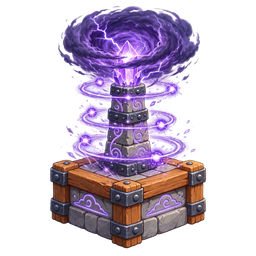
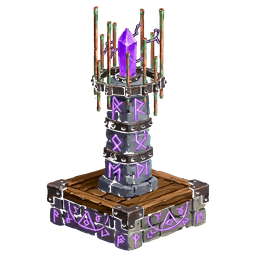
Lightning: per-state muzzles + structure-first art for 16 effect-dominated states

diff --git a/tests/browser/lightning-muzzles.spec.js b/tests/browser/lightning-muzzles.spec.js
@@ -1,0 +1,291 @@
+import { test, expect } from "@playwright/test";
+import { mkdirSync } from "node:fs";
+import {
+  declaredMuzzle,
+  towerDisplaySize,
+  towerMuzzle,
+} from "../../src/data/towers.js";
+
+// Lightning per-state muzzles (structure-first redo, 2026-10-21):
+// lightning was the type whose single type muzzle [0, -54] sat
+// inside the tower body — worst on the effect-dominated states,
+// whose bolts left from mid-cloud (1-3-0's old art grounded at
+// [0, -44]). Every state now declares its own muzzle in
+// STATE_MUZZLES, grounded on its own artwork; sixteen states also
+// carry new structure-first art (conductor prongs / coil masts /
+// crystal crowns replacing arc fountains, cloud stacks and vortex
+// wraps). Lightning draws no pointing weapon, so nothing mirrors
+// — the renderer's visual muzzle IS towerMuzzle. This spec pins
+// the table to the Phase 1 measurements, then proves in-game
+// that bolts leave from the declared per-state muzzle: the model
+// emits "bolt" with the tower in the payload and the scene
+// prepends towerVisualMuzzle(tower) to the effect's points, so
+// the capture below attributes each bolt by tower id, never by
+// screen position. QA stills land in ~/workspace/ts-proof-art/qa/.
+const QA = `${process.env.HOME}/workspace/ts-proof-art/qa`;
+mkdirSync(QA, { recursive: true });
+
+// Phase 1 grounded values (measurements.json), [dx, dy] at the
+// 80px reference render. The ascended entry is grounded on the
+// CURRENT ascended art (crowned orb center) — the staged
+// replacement art is held out, so its value is pinned too.
+const EXPECTED = {
+  "0-0-0": [-1, -68], "0-0-1": [-1, -69], "0-0-2": [0, -67],
+  "0-0-3": [0, -64], "0-1-0": [-1, -69], "0-1-1": [-1, -70],
+  "0-1-2": [0, -68], "0-1-3": [0, -64], "0-2-0": [0, -68],
+  "0-2-1": [1, -69], "0-3-0": [-1, -68], "0-3-1": [0, -68],
+  "1-0-0": [0, -68], "1-0-1": [0, -69], "1-0-2": [0, -67],
+  "1-0-3": [0, -60], "1-1-0": [0, -64], "1-2-0": [0, -69],
+  "1-3-0": [0, -66], "2-0-0": [0, -72], "2-0-1": [0, -68],
+  "2-1-0": [0, -73], "3-0-0": [0, -73], "3-0-1": [0, -66],
+  "3-1-0": [0, -69], ascended: [0, -65],
+};
+// Every state is sampled in-game: all three paths tier by tier,
+// the mixes, and every redo state. Upgrade sequences build the
+// highest path first, then the secondary (the cannon/fire specs'
+// proven order).
+const SAMPLES = {
+  "0-0-0": [],
+  "1-0-0": [0],
+  "2-0-0": [0, 0],
+  "3-0-0": [0, 0, 0],
+  "3-0-1": [0, 0, 0, 2],
+  "3-1-0": [0, 0, 0, 1],
+  "0-1-0": [1],
+  "0-2-0": [1, 1],
+  "0-3-0": [1, 1, 1],
+  "0-3-1": [1, 1, 1, 2],
+  "0-1-1": [1, 2],
+  "0-2-1": [1, 1, 2],
+  "1-2-0": [1, 1, 0],
+  "1-3-0": [1, 1, 1, 0],
+  "1-1-0": [0, 1],
+  "0-0-1": [2],
+  "0-0-2": [2, 2],
+  "0-0-3": [2, 2, 2],
+  "0-1-2": [2, 2, 1],
+  "0-1-3": [2, 2, 2, 1],
+  "1-0-1": [0, 2],
+  "1-0-2": [2, 2, 0],
+  "1-0-3": [2, 2, 2, 0],
+  "2-0-1": [0, 0, 2],
+  "2-1-0": [0, 0, 1],
+};
+// Every state's correction is large enough that the bolt must
+// land measurably off the OLD type muzzle [0, -54]: the smallest
+// vertical correction in the table is 6 units (1-0-3), worth
+// ~7px at that state's display scale.
+const BIG = new Set(Object.keys(SAMPLES));
+
+async function ready(page) {
+  await page.goto("./");
+  await page.waitForFunction(() => window.__tinySiege?.ui.scene?.dynamic);
+}
+async function createProfile(page) {
+  await page.locator("#new-profile").click();
+  await page.locator("#nickname").fill("Storm Herald");
+  await page.locator("#profile-form button").click();
+}
+async function enterFreePlay(page) {
+  await page.locator("#play").click();
+  await page.locator('[data-freeplay="classic"]').click();
+}
+// Shared setup: emit wrapper capturing each bolt effect's start
+// point synchronously at fire time, attributed by the tower id
+// in the emit payload (the scene handler runs synchronously —
+// main.js wires onEvent -> ui.event — so the instant origEmit
+// returns, the scene has already pushed this tower's bolt effect
+// with the visual muzzle as points[0]). Scanning scene.effects
+// by type alone is NOT safe in general; the payload's tower is
+// what makes the attribution unambiguous. One immortal enemy is
+// parked off-trail, and an in-page builder sells the previous
+// proof tower, places a fresh Lightning tower and upgrades it
+// to the wanted state.
+async function setup(page) {
+  await page.evaluate(() => {
+    const { model: g } = window.__tinySiege;
+    g.reset();
+    g.gold = 1000000;
+    window.__proof = { bolts: [], towerId: null };
+    const origEmit = g.emit.bind(g);
+    g.emit = (type, payload = {}) => {
+      origEmit(type, payload);
+      if (type === "bolt" && payload.tower) {
+        const fx = window.__tinySiege.ui.scene.effects;
+        for (let i = fx.length - 1; i >= 0; i--) {
+          if (fx[i].type !== "bolt") continue;
+          window.__proof.bolts.push({
+            towerId: payload.tower.id,
+            x: fx[i].points[0].x,
+            y: fx[i].points[0].y,
+          });
+          break;
+        }
+      }
+    };
+    const e = g.spawn("basic");
+    e.speed = 0;
+    e.health = 1e12;
+    e.armor = 0;
+    window.__proof.enemyId = e.id;
+    g.startWave();
+    g.queue = [];
+    window.__proof.build = (paths, upgrades, x, y, minD = 55) => {
+      if (window.__proof.towerId != null) g.sell(window.__proof.towerId);
+      const t = g.place("lightning", x, y);
+      if (!t) throw new Error(`lightning placement rejected at ${x},${y}`);
+      for (const p of upgrades) g.upgrade(t.id, p);
+      if (t.paths.join("-") !== paths)
+        throw new Error(`lightning ended at ${t.paths}, wanted ${paths}`);
+      window.__proof.towerId = t.id;
+      const trail = g.trails[0];
+      const range = g.effectiveStats(t).range;
+      let at = null,
+        park = null;
+      for (let p = 40; p < 2400 && (at === null || park === null); p += 5) {
+        const pos = trail.onPath(p);
+        if (!pos || !Number.isFinite(pos.x)) continue;
+        const d = Math.hypot(pos.x - t.x, pos.y - t.y);
+        if (at === null && d >= minD && d <= range - 10) at = p;
+        if (park === null && d > range + 40) park = p;
+      }
+      if (at === null || park === null)
+        throw new Error(`trail scan missed for ${paths}: at=${at} park=${park}`);
+      const enemy = g.enemies.find((e) => e.id === window.__proof.enemyId);
+      enemy.progress = park;
+      Object.assign(enemy, trail.onPath(park));
+      return { id: t.id, x: t.x, y: t.y, at, park };
+    };
+    window.__proof.moveEnemy = (p) => {
+      const enemy = g.enemies.find((e) => e.id === window.__proof.enemyId);
+      enemy.progress = p;
+      Object.assign(enemy, g.trails[0].onPath(p));
+    };
+  });
+}
+
+test("lightning table matches the grounded measurements", () => {
+  for (const [state, want] of Object.entries(EXPECTED)) {
+    const paths =
+      state === "ascended" ? [3, 3, 3] : state.split("-").map(Number);
+    expect(
+      declaredMuzzle({ type: "lightning", paths }),
+      `lightning ${state}`,
+    ).toEqual(want);
+  }
+});
+
+test("lightning bolts leave from each state's own muzzle", async ({
+  page,
+}) => {
+  test.setTimeout(300000);
+  await page.setViewportSize({ width: 844, height: 390 });
+  const errors = [];
+  page.on("pageerror", (e) => errors.push(e.message));
+  await ready(page);
+  await createProfile(page);
+  await enterFreePlay(page);
+  await setup(page);
+
+  for (const [state, upgrades] of Object.entries(SAMPLES)) {
+    const paths = state.split("-").map(Number);
+    const built = await page.evaluate(
+      ({ paths, upgrades }) =>
+        window.__proof.build(paths, upgrades, 342, 263),
+      { paths: state, upgrades },
+    );
+    const want = towerMuzzle({
+      type: "lightning",
+      x: built.x,
+      y: built.y,
+      paths,
+    });
+    await page.evaluate(
+      ({ id, at }) => {
+        window.__proof.bolts = window.__proof.bolts.filter(
+          (b) => b.towerId !== id,
+        );
+        window.__proof.moveEnemy(at);
+      },
+      { id: built.id, at: built.at },
+    );
+    await page.waitForFunction(
+      (id) => window.__proof.bolts.some((b) => b.towerId === id),
+      built.id,
+      { timeout: 20000 },
+    );
+    const origin = await page.evaluate(
+      (id) => window.__proof.bolts.find((b) => b.towerId === id),
+      built.id,
+    );
+    expect(Math.abs(origin.x - want.x), `${state} bolt x`).toBeLessThan(1.5);
+    expect(Math.abs(origin.y - want.y), `${state} bolt y`).toBeLessThan(1.5);
+    if (BIG.has(state)) {
+      // The correction must be real: the origin sits measurably
+      // off the old type muzzle [0, -54] at this state's scale.
+      const scale = towerDisplaySize({ type: "lightning", paths }) / 80;
+      const old = { x: built.x, y: built.y - 54 * scale };
+      expect(
+        Math.hypot(origin.x - old.x, origin.y - old.y),
+        `${state} off old muzzle`,
+      ).toBeGreaterThan(5);
+    }
+    await page.evaluate((p) => window.__proof.moveEnemy(p), built.park);
+  }
+  expect(errors).toEqual([]);
+});
+
+test("lightning redo stills — crown, orb, stormcaller and thunderlord firing", async ({
+  page,
+}) => {
+  test.setTimeout(300000);
+  await page.setViewportSize({ width: 844, height: 390 });
+  const errors = [];
+  page.on("pageerror", (e) => errors.push(e.message));
+  await ready(page);
+  await createProfile(page);
+  await enterFreePlay(page);
+  await setup(page);
+
+  const scenes = [
+    { state: "3-0-0", upgrades: [0, 0, 0], at: [342, 263] },
+    { state: "1-3-0", upgrades: [1, 1, 1, 0], at: [342, 263] },
+    { state: "0-0-3", upgrades: [2, 2, 2], at: [743, 396] },
+    { state: "0-3-0", upgrades: [1, 1, 1], at: [743, 396] },
+  ];
+  for (const scene of scenes) {
+    const built = await page.evaluate(
+      ({ paths, upgrades, x, y, minD }) =>
+        window.__proof.build(paths, upgrades, x, y, minD),
+      {
+        paths: scene.state,
+        upgrades: scene.upgrades,
+        x: scene.at[0],
+        y: scene.at[1],
+        minD: scene.minD ?? 55,
+      },
+    );
+    // Screenshot on a frame where the tower is visibly firing:
+    // wait for the emit wrapper to record a FRESH bolt FROM THIS
+    // TOWER (its effect was created that same tick and lives
+    // 0.18s), then shoot immediately — the bolt's first segment
+    // still starts at the muzzle it left from.
+    await page.evaluate(
+      ({ id, at }) => {
+        window.__proof.bolts = window.__proof.bolts.filter(
+          (b) => b.towerId !== id,
+        );
+        window.__proof.moveEnemy(at);
+      },
+      { id: built.id, at: built.at },
+    );
+    await page.waitForFunction(
+      (id) => window.__proof.bolts.some((b) => b.towerId === id),
+      built.id,
+      { timeout: 20000 },
+    );
+    await page.screenshot({ path: `${QA}/lightning-${scene.state}.png` });
+    await page.evaluate((p) => window.__proof.moveEnemy(p), built.park);
+  }
+  expect(errors).toEqual([]);
+});

diff --git a/src/data/towers.js b/src/data/towers.js
@@ -905,6 +905,57 @@ export const STATE_MUZZLES = {
     "3-1-0": [0, -72],
     ascended: [0, -28],
   },
+  // Lightning (structure-first redo, 2026-10-21): every state
+  // measured on its own artwork. The old type muzzle [0, -54] sat
+  // inside the tower body — worst on the effect-dominated states,
+  // whose bolts left from mid-cloud (1-3-0's old art grounded at
+  // [0, -44]). Sixteen states carry new structure-first art from
+  // this pass and their muzzles are grounded on it: the A-path
+  // arc fountains became conductor prongs / coil masts with the
+  // crystal at the crown (3-0-0 [0, -73], 2-1-0 [0, -73]), the
+  // Thunderlord cloud stacks became gold-banded masts (0-3-0
+  // [-1, -68]), the Stormcaller line fires from the crystal at
+  // the center of its conductor-rod ring (0-0-3 / 0-1-3 [0, -64]),
+  // and 1-3-0's orb sits between its conductor prongs ([0, -66]).
+  // Crystal-cluster dx was cross-checked against the violet-pixel
+  // centroid (the grounding point alone latched onto the
+  // brightest shard, up to +7 off). Eight redo states whose new
+  // art is wider/shorter (0-3-0, 1-3-0, 0-1-3, 2-0-1, 1-2-0,
+  // 1-0-1, 1-0-0, 0-0-3) carry compensated towerWidths entries —
+  // stepped down just enough that each state's drawn on-screen
+  // height stays >= its old art's (the towers-grow-never-shrink
+  // rule applied to drawn height, not just frame factor). The ascended entry is
+  // grounded on the CURRENT ascended art ([0, -65], crowned orb
+  // center) — a staged replacement artwork exists but is held
+  // out pending the owner's call; its muzzle differs ([0, -71]).
+  lightning: {
+    "0-0-0": [-1, -68],
+    "0-0-1": [-1, -69],
+    "0-0-2": [0, -67],
+    "0-0-3": [0, -64],
+    "0-1-0": [-1, -69],
+    "0-1-1": [-1, -70],
+    "0-1-2": [0, -68],
+    "0-1-3": [0, -64],
+    "0-2-0": [0, -68],
+    "0-2-1": [1, -69],
+    "0-3-0": [-1, -68],
+    "0-3-1": [0, -68],
+    "1-0-0": [0, -68],
+    "1-0-1": [0, -69],
+    "1-0-2": [0, -67],
+    "1-0-3": [0, -60],
+    "1-1-0": [0, -64],
+    "1-2-0": [0, -69],
+    "1-3-0": [0, -66],
+    "2-0-0": [0, -72],
+    "2-0-1": [0, -68],
+    "2-1-0": [0, -73],
+    "3-0-0": [0, -73],
+    "3-0-1": [0, -66],
+    "3-1-0": [0, -69],
+    ascended: [0, -65],
+  },
 };
 // The muzzle a tower actually declares: per-state override when one
 // exists, else the type's muzzle. Single source of truth for the sim,
